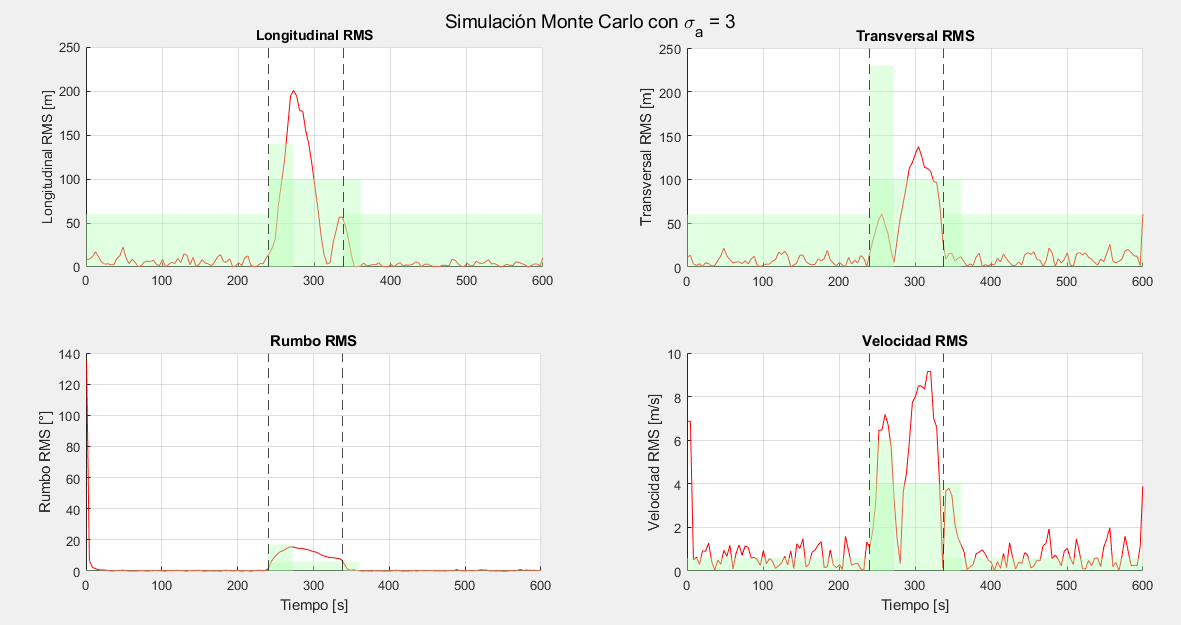
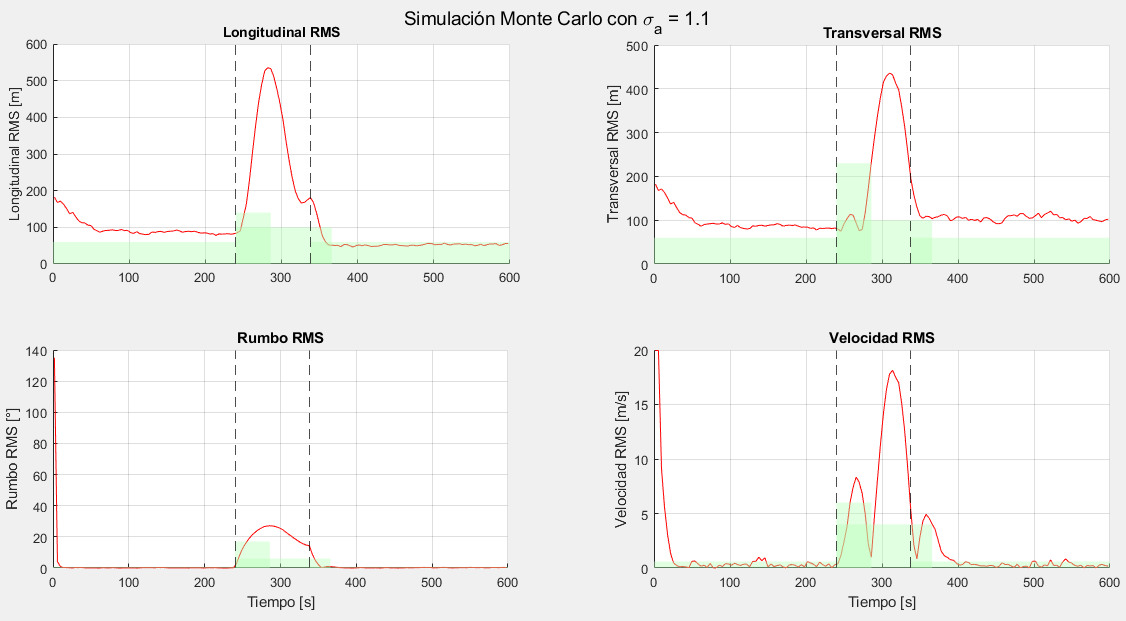
venga

diff --git a/comparar_sigma_incumplimiento.m b/comparar_sigma_incumplimiento.m
@@ -1,8 +1,8 @@
 
-%clear; close all; clc;
+clear; close all; clc;
 addpath(genpath(pwd));
 
-sigmas = [0.1 0.2 0.3 0.4 0.5 0.6 0.7 0.8 0.9 1.0 3.0 5.0 7.0 9.0 10.0];  % valores a probar
+sigmas = [0.1 0.5 0.7 0.8 0.9 0.95 1.0 1.05 1.1 1.2 1.5 2.0 5.0 7.0 10.0];  % valores a probar
 T = 4;              % Tiempo de muestreo radar [s]
 N = 200;            % Número de simulaciones Monte Carlo
 
@@ -31,6 +31,7 @@ for s = 1:length(sigmas)
     erroresAcumulados(N) = struct('longitudinal',[],'transversal',[],'velocidad',[],'rumbo',[],'tiempo',[]);
 
     for i = 1:N
+        radar(1).Tini=rand(1,1)*radar(1).Tr;
         target = real_measurement(target_ideal, radar, true, true, false, 0, 0, projection);
         estimacion = kalman_cv(target(1), T, sigma_a);
         trkEstimada.posStereo = estimacion.pos;
@@ -48,20 +49,22 @@ for s = 1:length(sigmas)
     errTrans = zeros(size(tiempo));
     errVel = zeros(size(tiempo));
     errRumbo = zeros(size(tiempo));
+    
     for i = 1:N
         errLong = errLong + erroresAcumulados(i).longitudinal;
         errTrans = errTrans + erroresAcumulados(i).transversal;
         errVel = errVel + erroresAcumulados(i).velocidad;
         errRumbo = errRumbo + erroresAcumulados(i).rumbo;
     end
+    
     errLong = errLong / N;
     errTrans = errTrans / N;
     errVel = errVel / N;
     errRumbo = errRumbo / N;
 
     ventana = 1;
-    errLong_RMS = sqrt(movmean(errLong.^2, ventana));
-    errTrans_RMS = sqrt(movmean(errTrans.^2, ventana));
+    errLong_RMS = sqrt(movmean(errLong, ventana));
+    errTrans_RMS = sqrt(movmean(errTrans, ventana));
     errVel_RMS = sqrt(movmean(errVel.^2, ventana));
     errRumbo_RMS = sqrt(movmean(errRumbo.^2, ventana));
 
@@ -84,6 +87,7 @@ for s = 1:length(sigmas)
                     break;
                 end
             end
+            
             if isnan(dur), dur = tiempo(end) - t_trans_ini; end
             dur_max = tramos_tiempos(i+2) - t_trans_ini;
             dur = min(dur, dur_max);

diff --git a/montecarlo_maniobra_f.m b/montecarlo_maniobra_f.m
@@ -26,6 +26,7 @@ end
 %% 3) Simulación Monte Carlo
 erroresAcumulados(N) = struct('longitudinal',[],'transversal',[],'velocidad',[],'rumbo',[],'tiempo',[]);
 for i = 1:N
+    radar(1).Tini=rand(1,1)*radar(1).Tr; 
     target = real_measurement(target_ideal, radar, true, true, false, 0, 0, projection);
     estimacion = kalman_maniobra(target(1), T, sigma_a_normal, sigma_a_maniobra, alpha, PFA);
     trkEstimada.posStereo = estimacion.pos;
@@ -119,8 +120,8 @@ for i = 1:length(tipos_completos)
         [lim, ~] = limites_transicion(tipo, dur);
     end
 
-    rmsL = sqrt(mean(errLong(idx).^2));
-    rmsT = sqrt(mean(errTrans(idx).^2));
+    rmsL = sqrt(mean(errLong(idx)));
+    rmsT = sqrt(mean(errTrans(idx)));
     rmsV = sqrt(mean(errVel(idx).^2));
     rmsR = sqrt(mean(errRumbo(idx).^2));
     tipo_disp = erase(tipo, ["_1", "_2"]);
@@ -128,8 +129,8 @@ end
 % RMS instantáneo
 %% RMS instantáneo y % de incumplimiento por métrica
 ventana = 1;
-errLong_RMS = sqrt(movmean(errLong.^2, ventana));
-errTrans_RMS = sqrt(movmean(errTrans.^2, ventana));
+errLong_RMS = sqrt(movmean(errLong, ventana));
+errTrans_RMS = sqrt(movmean(errTrans, ventana));
 errVel_RMS = sqrt(movmean(errVel.^2, ventana));
 errRumbo_RMS = sqrt(movmean(errRumbo.^2, ventana));
 

diff --git a/montecarlo_maniobra.m b/montecarlo_maniobra.m
@@ -5,10 +5,10 @@ addpath(genpath(pwd));
 N = 200;             
 T = 4;               
 
-sigma_a_normal   = 0.03;
-sigma_a_maniobra = 22;
-alpha            = 0.52;
-PFA              = 5.5e-02;
+sigma_a_normal   = 0.04;
+sigma_a_maniobra = 23;
+alpha            = 0.5;
+PFA              = 2.5e-02;
 
 %% 2) Trayectoria ideal
 [track, radar, projection] = generarTrayectoria();
@@ -30,6 +30,7 @@ end
 %% 3) Simulación Monte Carlo
 erroresAcumulados(N) = struct('longitudinal',[],'transversal',[],'velocidad',[],'rumbo',[],'tiempo',[]);
 for i = 1:N
+    radar(1).Tini=rand(1,1)*radar(1).Tr; 
     target = real_measurement(target_ideal, radar, true, true, false, 0, 0, projection);
     estimacion = kalman_maniobra(target(1), T, sigma_a_normal, sigma_a_maniobra, alpha, PFA);
     trkEstimada.posStereo = estimacion.pos;

diff --git a/param_opt.m b/param_opt.m
@@ -4,10 +4,11 @@
 %clc; clear;
 
 % Valores a probar
-sigma_n_vals = [0.02, 0.025, 0.03];
-sigma_m_vals = [22, 23, 23.5, 24];
-alpha_vals    = [0.48, 0.5, 0.52];
-PFA_vals      = [0.055, 0.06, 0.07];
+sigma_n_vals = [0.04, 0.05, 0.08];
+sigma_m_vals = [8, 9, 10, 11, 12, 13, 14, 15, 16,  19, 20];
+alpha_vals = [0.4, 0.50, 0.6, 0.7];
+PFA_vals = [0.02, 0.05, 0.07];
+
 
 % Inicializar resultados
 resultados = [];

diff --git a/montecarlo_cv.m b/montecarlo_cv.m
@@ -7,7 +7,7 @@ N = 200;
 
 % Parámetros del filtro
 T = 4;              % Tiempo de muestreo radar [s]
-sigma_a = 3;      % Desviación típica aceleración [m/s^2]
+sigma_a = 1.1;      % Desviación típica aceleración [m/s^2]
 
 % Generar trayectoria ideal
 [track, radar, projection] = generarTrayectoria();

diff --git a/README.md b/README.md
@@ -9,50 +9,50 @@
 
 ---
 
-## Análisis por Tramos y Transiciones (σₐ = 3.0)
+### Análisis por Tramos y Transiciones (σₐ = 1.1)
 
 | # | Tipo              | Duración (s) | Long (RMS / Max) | Trans (RMS / Max) | Vel (RMS / Max) | Rumbo (RMS / Max) |
 |----|-------------------|--------------|-------------------|--------------------|------------------|--------------------|
-|  1 | uniforme          |      240.0 |    7.97 / 60      |    8.63 / 60       |   1.46 / 0.6     |  17.46 / 0.7     |
-|  2 | uniforme_giro     |       24.0 |   70.88 / 140     |   44.77 / 230      |   5.01 / 6.0     |   9.77 / 17.0    |
-|  3 | uniforme_giro     |        8.6 |  176.73 / 140     |   29.68 / 215      |   6.23 / 6.0     |  14.93 / 14.5    |
-|  4 | giro              |       98.0 |  112.00 / 100     |   83.17 / 100      |   6.07 / 4.0     |  11.65 / 6.0     |
-|  5 | giro_uniforme     |       22.5 |   25.97 / 100     |   11.80 / 100      |   3.06 / 4.0     |   2.10 / 6.0     |
-|  6 | uniforme          |      262.0 |    7.99 / 60      |   13.19 / 60       |   1.23 / 0.6     |   0.66 / 0.7     |
-## Porcentaje de Incumplimiento EUROCONTROL (σₐ = 3.0)
+|  1 | uniforme          |      240.0 |  101.03 / 60      |  100.82 / 60       |   3.94 / 0.6     |  17.44 / 0.7     |
+|  2 | uniforme_giro     |       24.0 |  184.51 / 140     |   96.83 / 230      |   4.32 / 6.0     |  14.47 / 17.0    |
+|  3 | uniforme_giro     |       22.0 |  477.45 / 140     |  113.39 / 215      |   6.44 / 6.0     |  25.23 / 14.5    |
+|  4 | giro              |       98.0 |  340.77 / 100     |  276.25 / 100      |  10.47 / 4.0     |  20.94 / 6.0     |
+|  5 | giro_uniforme     |       27.9 |  108.69 / 100     |  121.21 / 100      |   3.59 / 4.0     |   4.26 / 6.0     |
+|  6 | uniforme          |      262.0 |   59.65 / 60      |  106.65 / 60       |   1.38 / 0.6     |   1.32 / 0.7     |
+### Porcentaje de Incumplimiento EUROCONTROL (σₐ = 1.1)
 
 | Segmento           | Duración (s) | Longitud (%) | Transversal (%) | Velocidad (%) | Rumbo (%) |
 |--------------------|--------------|----------------|-------------------|----------------|------------|
-| uniforme           |      240.0 |          0.0 |             0.0 |          48.3 |        8.3 |
-| uniforme_giro_1    |       24.0 |          0.0 |             0.0 |          50.0 |        0.0 |
-| uniforme_giro_2    |        8.6 |        100.0 |             0.0 |          33.3 |       66.7 |
-| giro               |       98.0 |         40.0 |            32.0 |          64.0 |       96.0 |
-| giro_uniforme      |       22.5 |          0.0 |             0.0 |           0.0 |        0.0 |
-| uniforme           |      262.0 |          0.0 |             1.5 |          48.5 |       10.6 |
+| uniforme           |      240.0 |        100.0 |           100.0 |          21.7 |        5.0 |
+| uniforme_giro_1    |       24.0 |         50.0 |             0.0 |          16.7 |       33.3 |
+| uniforme_giro_2    |       22.0 |        100.0 |            16.7 |          50.0 |      100.0 |
+| giro               |       98.0 |         92.0 |            76.0 |          76.0 |       96.0 |
+| giro_uniforme      |       27.9 |         42.9 |           100.0 |          57.1 |       14.3 |
+| uniforme           |      262.0 |          6.2 |           100.0 |          27.7 |        9.2 |
 
 ---
-### COMPARACIÓN DE INCUMPLIMIENTO PARA DISTINTOS σ_a 
+### Resultados de incumplimiento para distintos valores de σₐ (Kalman CV)
 
-| σₐ   | Long (%) | Trans (%) | Vel (%) | Rumbo (%) |
-|------|----------|-----------|---------|-----------|
-| 0.10 |   49.7   |    63.2   |  54.9   |   50.8    |
-| 0.20 |   36.2   |    46.5   |  44.9   |   38.9    |
-| 0.30 |   32.6   |    38.1   |  39.8   |   35.4    |
-| 0.40 |   29.8   |    31.5   |  37.6   |   31.5    |
-| 0.50 |   26.7   |    24.4   |  36.4   |   31.2    |
-| 0.60 |   24.6   |    21.1   |  32.6   |   30.3    |
-| 0.70 |   23.7   |    19.1   |  33.5   |   27.7    |
-| 0.80 |   22.7   |    16.3   |  32.0   |   27.3    |
-| 0.90 |   21.6   |    15.2   |  32.2   |   27.5    |
-| 1.00 |   20.5   |    13.5   |  31.6   |   26.9    |
-| **3.00** | **8.5** | **4.9** | **46.3** | **21.3** |
-| 5.00 |    2.5   |     0.0   |  58.0   |   21.0    |
-| 7.00 |    0.0   |     0.0   |  66.0   |   27.8    |
-| 9.00 |    0.0   |     0.0   |  66.5   |   28.0    |
-|10.00 |    0.0   |     0.0   |  70.2   |   35.4    |
+| σₐ   | Longitud (%) | Transversal (%) | Velocidad (%) | Rumbo (%) |
+|------|---------------|------------------|----------------|-------------|
+| 0.10 | 69.6          | 83.0             | 59.3           | 50.5        |
+| 0.50 | 62.7          | 91.5             | 35.6           | 30.5        |
+| 0.70 | 60.3          | 90.2             | 35.1           | 29.3        |
+| 0.80 | 60.1          | 89.6             | 34.7           | 27.2        |
+| 0.90 | 59.3          | 90.7             | 34.9           | 27.9        |
+| 0.95 | 58.7          | 88.4             | 29.7           | 27.9        |
+| 1.00 | 58.7          | 89.5             | 29.7           | 26.7        |
+| 1.05 | 58.1          | 89.5             | 31.4           | 25.6        |
+| **1.10** | **58.2**     | **86.5**           | **32.4**         | **25.9**      |
+| 1.20 | 57.6          | 87.6             | 34.1           | 25.3        |
+| 1.50 | 58.0          | 88.2             | 34.9           | 24.3        |
+| 2.00 | 65.9          | 87.4             | 42.5           | 22.2        |
+| 5.00 | 87.7          | 89.0             | 62.0           | 20.9        |
+| 7.00 | 90.7          | 89.5             | 64.2           | 27.8        |
+| 10.0 | 90.7          | 89.5             | 72.8           | 28.4        |
 
+> **Nota:** El valor óptimo según el mínimo incumplimiento medio total es **σₐ = 1.10**.
 
-El mejor valor de σₐ es **3.00** con un incumplimiento medio total del 20.27%
 
 <img src="img/comparacion_sigmas_cv.png" width="500"/>
 
